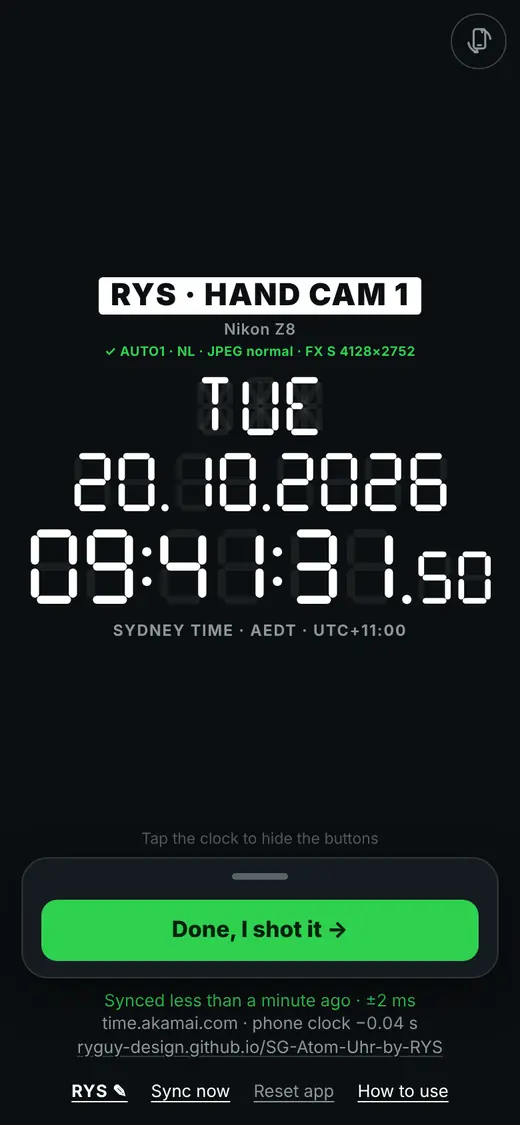
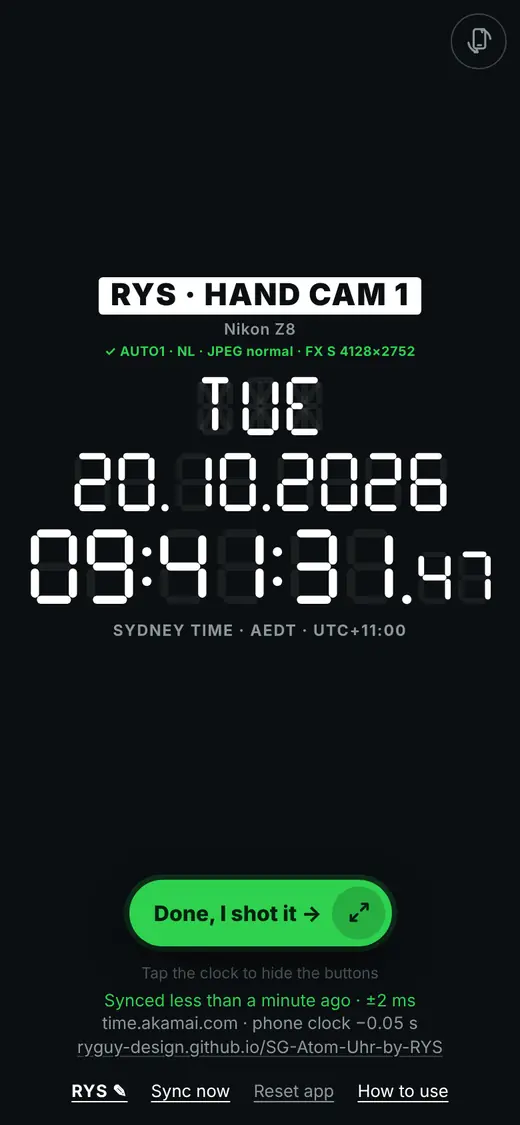
Camera check becomes a green floating bubble (drag anywhere, arrows open the box); clock always centred; landscape bottom text stacked and centred; guide updated
Claude-Session: https://claude.ai/code/session_01JznZzYxsbG1MxddMkXcSY2

diff --git a/index.html b/index.html
@@ -280,8 +280,6 @@ footer{position:relative}
 .fl-inner{display:flex; flex-direction:column; align-items:stretch; gap:.4rem; padding-bottom:12px}
 .fl-more{display:flex; flex-direction:column; gap:.35rem}
 /* Landscape has spare width, not height: the box floats on the right and the clock centres in the space left of it */
-html.land main{padding-right:var(--boxres,0px)}
-body.photo main{padding-right:0}
 html.land .nextbar{left:auto; right:max(12px, env(safe-area-inset-right,0px)); width:min(17.5rem, 36%); margin:0}
 html.land .fl-go{font-size:.98rem; padding:.7rem .6rem}
 html.land .fl-adds{flex-direction:column; gap:.4rem}
@@ -404,9 +402,10 @@ html.narrow .nb-next{font-size:.92rem; padding:.5rem .7rem}
 .resetbtn:focus-visible{outline:2px solid var(--fg); outline-offset:2px}
 .sheet button:focus-visible,.sheet select:focus-visible,.checklist input:focus-visible{outline:2px solid var(--fg); outline-offset:2px}
 /* Landscape: everything at the bottom on one compact line, so the clock gets the height */
-html.land footer{flex-wrap:nowrap; align-items:center; gap:.9rem}
+html.land footer{flex-direction:column; flex-wrap:nowrap; align-items:center; gap:.3rem; text-align:center}
+html.land .taphint{margin-bottom:.2rem}
 html.land .cam{width:auto; flex:1 1 auto; min-width:0; max-width:55%}
-html.land #status{flex:1; min-width:0}
+html.land #status{align-items:center; text-align:center}
 html.land #syncText{white-space:nowrap; overflow:hidden; text-overflow:ellipsis}
 html.land #detail,html.land .applink{display:none}
 html.narrow footer{flex-direction:column; align-items:center; text-align:center}
@@ -417,15 +416,27 @@ html.rot body{position:fixed; top:0; left:0; width:var(--rw); height:var(--rh); 
 /* ---- Motion: soft, slightly springy ("liquid") ---- */
 :root{--spring:cubic-bezier(.2,1.25,.3,1); --ease:cubic-bezier(.2,.8,.2,1)}
 /* Bottom panel: slides up, can be dragged down to a small peek, and back up */
-.nextbar{transition:height .45s var(--spring), opacity .25s var(--ease); touch-action:pan-x}
+.nextbar{touch-action:pan-x}
 .nextbar:not([hidden]){animation:panelIn .5s var(--spring)}
 .nextbar.leaving{opacity:0; transform:translateY(20px); transition:opacity .25s var(--ease), transform .25s var(--ease)}
 .nextbar.dragging{transition:none}
 .nextbar[data-stage="2"]{overflow-y:auto}
 .nextbar:not([data-stage="2"]) .fl-more{opacity:.0; transition:opacity .2s}
 .nextbar[data-stage="2"] .fl-more{opacity:1; transition:opacity .35s .1s}
-/* Minimised: just the line and the green button, so the next step is always one tap away */
-.nextbar[data-stage="0"] .fl-top,.nextbar[data-stage="0"] .fl-steps,.nextbar[data-stage="0"] .fl-adds{display:none}
+/* Put away: the box hides and the green bubble takes its place */
+.nextbar[data-stage="0"]{visibility:hidden; opacity:0; pointer-events:none}
+.nextbar{transition:height .45s var(--spring), opacity .25s var(--ease), visibility .25s}
+.bubble{position:fixed; z-index:9; left:0; top:0; display:flex; align-items:center; max-width:calc(100% - 24px); border-radius:999px; background:var(--ok); color:#06210e;
+  box-shadow:0 10px 28px rgba(0,0,0,.55), 0 0 0 4px rgba(46,204,90,.18); touch-action:none; -webkit-user-select:none; user-select:none; animation:panelIn .45s var(--spring)}
+.bubble[hidden]{display:none}
+.bubble.dragging{box-shadow:0 16px 36px rgba(0,0,0,.6), 0 0 0 6px rgba(46,204,90,.25); cursor:grabbing}
+.bb-go{min-width:0; font:inherit; font-size:1rem; font-weight:800; color:inherit; background:none; border:0; padding:.8rem .4rem .8rem 1.15rem; white-space:nowrap; overflow:hidden; text-overflow:ellipsis; cursor:pointer}
+.bb-add{flex-shrink:0; font:inherit; font-size:.95rem; font-weight:800; color:#06210e; background:rgba(0,0,0,.12); border:0; border-radius:999px; padding:.55rem .7rem; margin-left:.2rem; cursor:pointer; white-space:nowrap}
+.bb-add[hidden]{display:none}
+.bb-exp{flex-shrink:0; width:2.5rem; height:2.5rem; margin:.3rem .3rem .3rem .1rem; border-radius:50%; border:0; background:rgba(0,0,0,.16); color:#06210e; display:flex; align-items:center; justify-content:center; cursor:pointer; padding:0}
+.bb-exp svg{width:1.05rem; height:1.05rem}
+.bb-go:focus-visible,.bb-exp:focus-visible{outline:2px solid #fff; outline-offset:2px; border-radius:999px}
+body.photo .bubble{display:none}
 .fl-inner{transition:opacity .25s var(--ease)}
 .fl-grab{flex-shrink:0; align-self:center; display:flex; align-items:center; justify-content:center; width:100%; height:1.6rem; padding:0; background:none; border:0; cursor:grab; touch-action:none}
 .fl-grab i{display:block; width:2.6rem; height:5px; border-radius:3px; background:#56626a}
@@ -479,6 +490,12 @@ html:not(.land) .taphint{transform:translateY(calc(-1 * var(--boxh, 0px))); tran
 
 <div id="tapHint" class="taphint">Tap the clock to hide the buttons</div>
 <div id="showHint" class="showhint">Tap to show buttons</div>
+<!-- Camera check bubble: the box when it's put away. Drag it anywhere; the arrows open the box -->
+<div id="bubble" class="bubble" hidden>
+  <button id="bbGo" class="bb-go" type="button"></button>
+  <button id="bbAdd" class="bb-add" type="button" hidden aria-label="Add another camera">+ 📷</button>
+  <button id="bbExp" class="bb-exp" type="button" aria-label="Open the camera box"><svg viewBox="0 0 24 24" fill="none" stroke="currentColor" stroke-width="2.6" stroke-linecap="round" stroke-linejoin="round"><polyline points="15 3 21 3 21 9"/><polyline points="9 21 3 21 3 15"/><line x1="21" y1="3" x2="14" y2="10"/><line x1="3" y1="21" x2="10" y2="14"/></svg></button>
+</div>
 <footer>
 <div id="nextBar" class="nextbar" hidden role="region" aria-label="Camera steps" data-stage="0">
   <button id="flGrab" class="fl-grab" type="button" aria-label="Slide the camera box up or down"><i></i></button>
@@ -591,17 +608,17 @@ html:not(.land) .taphint{transform:translateY(calc(-1 * var(--boxh, 0px))); tran
 <div id="guide" class="viewer guide" hidden role="dialog" aria-modal="true" aria-labelledby="gTitle">
   <div class="view-top g-top"><b id="gTitle">How to use</b><button id="gClose" class="g-close" type="button" aria-label="Close the guide">✕</button></div>
   <ol class="g-list">
-    <li class="g-step"><div class="g-num">1</div><div class="g-body"><b>Add your first camera</b><p>Tap <b>+ 📷</b> at the bottom of the clock screen.</p><img src="guide/1.webp?v=3" alt="" loading="lazy" width="390" height="844"></div></li>
-    <li class="g-step"><div class="g-num">2</div><div class="g-body"><b>Enter your initials</b><p>Only the first time. They go on every camera label and photo name. Change them later with your initials at the bottom of the screen.</p><img src="guide/2.webp?v=3" alt="" loading="lazy" width="390" height="844"></div></li>
-    <li class="g-step"><div class="g-num">3</div><div class="g-body"><b>Pick the camera</b><p>Choose <b>Hand cam</b> or <b>LS</b> at the top, then tap the brand and the model. Your recent cameras show at the top for one-tap picks.</p><img src="guide/3.webp?v=3" alt="" loading="lazy" width="390" height="844"></div></li>
-    <li class="g-step"><div class="g-num">4</div><div class="g-body"><b>Set the 4 settings</b><p>Set each setting on your camera and tick it. Every tick has to be tapped. Then tap <b>Continue: shoot the clock →</b>.</p><img src="guide/4.webp?v=3" alt="" loading="lazy" width="390" height="844"></div></li>
-    <li class="g-step"><div class="g-num">5</div><div class="g-body"><b>Shoot the clock</b><p>Point your camera at the clock and take a shot. Then tap <b>Done, I shot it →</b> in the box at the bottom.</p><img src="guide/5.webp?v=3" alt="" loading="lazy" width="390" height="844"></div></li>
-    <li class="g-step"><div class="g-num">6</div><div class="g-body"><b>The camera box</b><p>Drag its line up for more: the middle height shows your cameras, the progress line and ✎ 🗑 ✕. All the way up shows the instructions and ← Back links. Drag it down or tap ✕ to make it small again. The green button always stays on show.</p><img src="guide/6.webp?v=3" alt="" loading="lazy" width="390" height="844"></div></li>
-    <li class="g-step"><div class="g-num">7</div><div class="g-body"><b>Photograph the camera's screen</b><p>On the camera, play back the shot of the clock with its <b>time showing</b>. Tap <b>📷 Take photo</b>, fill the frame with the camera's screen and press the shutter.</p><img src="guide/7.webp?v=3" alt="" loading="lazy" width="390" height="844"></div></li>
-    <li class="g-step"><div class="g-num">8</div><div class="g-body"><b>Check: same second?</b><p>The app reads the clock in the shot and the camera's own time and tells you <b>In sync ✓</b> or how many seconds it's off. Zoom in to check by eye. In sync: tap <b>✓ Yes, in sync</b>. Not in sync: fix the camera's clock, shoot the clock again and <b>Retake</b>.</p><img src="guide/8.webp?v=3" alt="" loading="lazy" width="390" height="844"></div></li>
-    <li class="g-step"><div class="g-num">9</div><div class="g-body"><b>Next camera or add one</b><p>Tap <b>Next camera →</b> for the next one in your list. Tap <b>+ 📷</b> next to the green button to add another hand cam or LS.</p><img src="guide/9.webp?v=3" alt="" loading="lazy" width="390" height="844"></div></li>
-    <li class="g-step"><div class="g-num">10</div><div class="g-body"><b>Send the photos</b><p>When every camera has its photo, tap <b>Send photos →</b>. Look over the list (tap one to see it again), then tap <b>Send</b> and pick your group chat. Sending is locked until every camera has a photo; a red tile takes you to the one that's missing.</p><img src="guide/10.webp?v=3" alt="" loading="lazy" width="390" height="844"></div></li>
-    <li class="g-step"><div class="g-num">11</div><div class="g-body"><b>Change, delete or switch cameras</b><p>In the middle height of the box: tap a camera to switch to it, tap it again (or ✎) to change its check, 🗑 twice to delete it, + to add one.</p><img src="guide/11.webp?v=3" alt="" loading="lazy" width="390" height="844"></div></li>
+    <li class="g-step"><div class="g-num">1</div><div class="g-body"><b>Add your first camera</b><p>Tap <b>+ 📷</b> at the bottom of the clock screen.</p><img src="guide/1.webp?v=4" alt="" loading="lazy" width="390" height="844"></div></li>
+    <li class="g-step"><div class="g-num">2</div><div class="g-body"><b>Enter your initials</b><p>Only the first time. They go on every camera label and photo name. Change them later with your initials at the bottom of the screen.</p><img src="guide/2.webp?v=4" alt="" loading="lazy" width="390" height="844"></div></li>
+    <li class="g-step"><div class="g-num">3</div><div class="g-body"><b>Pick the camera</b><p>Choose <b>Hand cam</b> or <b>LS</b> at the top, then tap the brand and the model. Your recent cameras show at the top for one-tap picks.</p><img src="guide/3.webp?v=4" alt="" loading="lazy" width="390" height="844"></div></li>
+    <li class="g-step"><div class="g-num">4</div><div class="g-body"><b>Set the 4 settings</b><p>Set each setting on your camera and tick it. Every tick has to be tapped. Then tap <b>Continue: shoot the clock →</b>.</p><img src="guide/4.webp?v=4" alt="" loading="lazy" width="390" height="844"></div></li>
+    <li class="g-step"><div class="g-num">5</div><div class="g-body"><b>Shoot the clock</b><p>Point your camera at the clock and take a shot. Then tap <b>Done, I shot it →</b> on the green bubble.</p><img src="guide/5.webp?v=4" alt="" loading="lazy" width="390" height="844"></div></li>
+    <li class="g-step"><div class="g-num">6</div><div class="g-body"><b>The green bubble</b><p>The bubble always shows your next step: just tap it. Drag it anywhere on the screen to keep the clock clear. Tap the <b>⤢ arrows</b> to open the camera box (your cameras, progress, ✎ 🗑 ✕); tap its line for the instructions and ← Back links. ✕ or a drag down turns it back into the bubble.</p><img src="guide/6.webp?v=4" alt="" loading="lazy" width="390" height="844"></div></li>
+    <li class="g-step"><div class="g-num">7</div><div class="g-body"><b>Photograph the camera's screen</b><p>On the camera, play back the shot of the clock with its <b>time showing</b>. Tap <b>📷 Take photo</b>, fill the frame with the camera's screen and press the shutter.</p><img src="guide/7.webp?v=4" alt="" loading="lazy" width="390" height="844"></div></li>
+    <li class="g-step"><div class="g-num">8</div><div class="g-body"><b>Check: same second?</b><p>The app reads the clock in the shot and the camera's own time and tells you <b>In sync ✓</b> or how many seconds it's off. Zoom in to check by eye. In sync: tap <b>✓ Yes, in sync</b>. Not in sync: fix the camera's clock, shoot the clock again and <b>Retake</b>.</p><img src="guide/8.webp?v=4" alt="" loading="lazy" width="390" height="844"></div></li>
+    <li class="g-step"><div class="g-num">9</div><div class="g-body"><b>Next camera or add one</b><p>Tap <b>Next camera →</b> for the next one in your list. Tap <b>+ 📷</b> on the bubble to add another hand cam or LS.</p><img src="guide/9.webp?v=4" alt="" loading="lazy" width="390" height="844"></div></li>
+    <li class="g-step"><div class="g-num">10</div><div class="g-body"><b>Send the photos</b><p>When every camera has its photo, tap <b>Send photos →</b>. Look over the list (tap one to see it again), then tap <b>Send</b> and pick your group chat. Sending is locked until every camera has a photo; a red tile takes you to the one that's missing.</p><img src="guide/10.webp?v=4" alt="" loading="lazy" width="390" height="844"></div></li>
+    <li class="g-step"><div class="g-num">11</div><div class="g-body"><b>Change, delete or switch cameras</b><p>Open the box with the ⤢ arrows: tap a camera to switch to it, tap it again (or ✎) to change its check, 🗑 twice to delete it, + to add one.</p><img src="guide/11.webp?v=4" alt="" loading="lazy" width="390" height="844"></div></li>
     <li class="g-step"><div class="g-num">i</div><div class="g-body"><b>Good to know</b><p>
       · <b>Sync now</b> re-checks the time server; the line above it shows how far off your phone's own clock is.<br>
       · <b>Tap the clock</b> to hide the buttons for a clean shot; tap again to bring them back.<br>
@@ -1500,14 +1517,58 @@ html:not(.land) .taphint{transform:translateY(calc(-1 * var(--boxh, 0px))); tran
     nextBar.dataset.stage = cur; return h;
   }
   function setStage(n){ stage = n; nextBar.dataset.stage = n; if(n < 2) nextBar.scrollTop = 0; var h = stageH(n); nextBar.style.height = h + "px";
-    document.documentElement.style.setProperty("--boxh", (h + 10) + "px"); document.documentElement.classList.toggle("boxfull", n === 2); reserve(); }
+    document.documentElement.style.setProperty("--boxh", (n ? h + 10 : 0) + "px"); document.documentElement.classList.toggle("boxfull", n === 2); updateBubble(); }
   // Landscape is short: the clock shrinks a little so the box's middle height never covers it
-  var reserved = -1;
-  function reserve(){
-    if(!flGrabEl) return;
-    var v = (!nextBar.hidden && document.documentElement.classList.contains("land")) ? nextBar.offsetWidth + 20 : 0;
-    if(v === reserved) return; reserved = v; document.documentElement.style.setProperty("--boxres", v + "px"); fit();
+  function reserve(){}   // the clock always stays centred now; nothing is reserved for the box
+  // ---- The bubble: the camera check when put away. Green, shows the next step, drag it anywhere, arrows open the box ----
+  var bubble = document.getElementById("bubble"), bbGo = document.getElementById("bbGo"), bubPos = null;
+  try{ bubPos = JSON.parse(localStorage.getItem("acBub") || "null"); }catch(e){}
+  function appSize(){ var rot = document.documentElement.classList.contains("rot"); return rot ? [document.body.clientWidth, document.body.clientHeight] : [window.innerWidth, window.innerHeight]; }
+  function placeBubble(){
+    if(bubble.hidden) return;
+    var sz = appSize(), W = sz[0], H = sz[1], bw = bubble.offsetWidth, bh = bubble.offsetHeight, foot = document.querySelector("footer"), x, y;
+    if(bubPos){ x = bubPos[0] * W - bw / 2; y = bubPos[1] * H - bh / 2; }
+    else if(document.documentElement.classList.contains("land")){ x = W - bw - 16; y = H - bh - 14; }   // first time, sideways: bottom-right corner, clear of the clock
+    else { x = (W - bw) / 2; y = foot.offsetTop - bh - 34; }   // first time, upright: centred just above the bottom text
+    x = Math.max(8, Math.min(W - bw - 8, x)); y = Math.max(8, Math.min(H - bh - 8, y));
+    bubble.style.transform = "translate(" + Math.round(x) + "px," + Math.round(y) + "px)";
+    bubble.dataset.x = x; bubble.dataset.y = y;
   }
+  function updateBubble(){
+    var show = !nextBar.hidden && !nextBar.classList.contains("leaving") && stage === 0;
+    bbGo.textContent = flGo.textContent; bbGo.setAttribute("aria-label", flGo.textContent);
+    document.getElementById("bbAdd").hidden = document.getElementById("flGoAdd").hidden;
+    if(bubble.hidden === !show){ if(show) placeBubble(); return; }
+    bubble.hidden = !show; if(show) placeBubble();
+  }
+  window.addEventListener("resize", function(){ setTimeout(placeBubble, 60); });
+  (function(){
+    var sx = 0, sy = 0, x0 = 0, y0 = 0, down = false, moved = false, skipClick = false;
+    function pt(e){ var rot = document.documentElement.classList.contains("rot"); return rot ? [e.clientY, -e.clientX] : [e.clientX, e.clientY]; }
+    bubble.addEventListener("pointerdown", function(e){
+      down = true; moved = false; var p = pt(e); sx = p[0]; sy = p[1]; x0 = +bubble.dataset.x || 0; y0 = +bubble.dataset.y || 0;
+    });
+    bubble.addEventListener("pointermove", function(e){
+      if(!down) return; var p = pt(e), dx = p[0] - sx, dy = p[1] - sy;
+      if(!moved && Math.hypot(dx, dy) < 8) return;
+      if(!moved){ moved = true; bubble.classList.add("dragging"); try{ bubble.setPointerCapture(e.pointerId); }catch(_){} }   // only a real drag takes the finger; taps reach the buttons
+      var sz = appSize(), bw = bubble.offsetWidth, bh = bubble.offsetHeight;
+      var x = Math.max(8, Math.min(sz[0] - bw - 8, x0 + dx)), y = Math.max(8, Math.min(sz[1] - bh - 8, y0 + dy));
+      bubble.style.transform = "translate(" + Math.round(x) + "px," + Math.round(y) + "px)"; bubble.dataset.x = x; bubble.dataset.y = y;
+    });
+    function end(){
+      if(!down) return; down = false; bubble.classList.remove("dragging");
+      if(moved){
+        skipClick = true; setTimeout(function(){ skipClick = false; }, 50);
+        var sz = appSize(); bubPos = [(+bubble.dataset.x + bubble.offsetWidth / 2) / sz[0], (+bubble.dataset.y + bubble.offsetHeight / 2) / sz[1]];
+        try{ localStorage.setItem("acBub", JSON.stringify(bubPos)); }catch(_){}
+      }
+    }
+    bubble.addEventListener("pointerup", end); bubble.addEventListener("pointercancel", end);
+    bbGo.addEventListener("click", function(e){ if(skipClick){ e.preventDefault(); return; } if(act_go) act_go(); });
+    document.getElementById("bbExp").addEventListener("click", function(e){ if(skipClick) return; setStage(1); });
+    document.getElementById("bbAdd").addEventListener("click", function(e){ if(skipClick) return; document.getElementById("flGoAdd").click(); });
+  })();
   window.addEventListener("resize", function(){ if(!nextBar.hidden) setStage(stage); });
   // Whenever the box's contents change size (new step, photo loaded, fonts), fit its height again
   if(window.ResizeObserver) new ResizeObserver(function(){ if(!nextBar.hidden && !nextBar.classList.contains("dragging")) setStage(stage); }).observe(flInner);
@@ -1529,12 +1590,12 @@ html:not(.land) .taphint{transform:translateY(calc(-1 * var(--boxh, 0px))); tran
       if(!down) return; dy = along(e) - y0; if(Math.abs(dy) > 4) moved = true; if(!moved) return;
       var lo = stageH(0), hi = stageH(2), h = h0 - dy;
       if(h > hi) h = hi + (h - hi) * .25; if(h < lo) h = lo - (lo - h) * .25;   // a little stretch past the ends, like pulling something soft
-      nextBar.dataset.stage = h > stageH(1) + 8 ? 2 : h > lo + 8 ? 1 : 0;
+      nextBar.dataset.stage = h > stageH(1) + 8 ? 2 : 1;
       nextBar.style.height = h + "px"; document.documentElement.style.setProperty("--boxh", (h + 10) + "px");
     });
     function end(){
       if(!down) return; down = false; nextBar.classList.remove("dragging");
-      if(!moved){ setStage(stage === 0 ? 1 : stage === 1 ? 2 : 1); return; }
+      if(!moved){ setStage(stage === 1 ? 2 : 1); return; }
       var v = -dy / Math.max(1, Date.now() - t0), h = nextBar.offsetHeight, hs = [stageH(0), stageH(1), stageH(2)], n = 0;
       for(var i = 1; i < 3; i++) if(Math.abs(hs[i] - h) < Math.abs(hs[n] - h)) n = i;
       if(v > .5) n = hs[2] > h + 4 ? (hs[1] > h + 4 ? 1 : 2) : 2;          // flicked up
@@ -1586,7 +1647,7 @@ html:not(.land) .taphint{transform:translateY(calc(-1 * var(--boxh, 0px))); tran
   function hideNext(force){
     if(nextBar.hidden || (!force && hasCams())) return;   // the box stays; pop-ups and the camera simply cover it
     nextBar.classList.add("leaving"); clearTimeout(hideT);
-    hideT = setTimeout(function(){ nextBar.hidden = true; nextBar.classList.remove("leaving"); nextBar.style.transform = ""; stage = 0; document.documentElement.style.setProperty("--boxh", "0px"); reserve(); }, 260);
+    hideT = setTimeout(function(){ nextBar.hidden = true; nextBar.classList.remove("leaving"); nextBar.style.transform = ""; stage = 0; document.documentElement.style.setProperty("--boxh", "0px"); updateBubble(); }, 260);
   }
   function doneCount(){ var n = 0; kit.cams.forEach(function(c){ if(isDone(c) && (photos[photoKey(c)] || skipped[photoKey(c)])) n++; }); return n; }
   function goNext(){
@@ -2507,7 +2568,7 @@ html:not(.land) .taphint{transform:translateY(calc(-1 * var(--boxh, 0px))); tran
   twoTap(document.getElementById("clearMain"), "Reset app", "Sure? Resets everything", resetApp);
   // Reset the whole app to a fresh start: no cameras, no initials, no ticks or photos, location off, not rotated
   function resetApp(){
-    try{ ["acCam","acModel","acRecent","acTicks","acKit","acEvent","acLoc","acRot"].forEach(function(k){ localStorage.removeItem(k); }); }catch(e){}
+    try{ ["acCam","acModel","acRecent","acTicks","acKit","acEvent","acLoc","acRot","acBub"].forEach(function(k){ localStorage.removeItem(k); }); }catch(e){}
     camInit.value = ""; updateInitBtn(); kit = defaultKit(); ev = {day: today(), ticks: {}, id: String(Date.now())}; recent = []; dbClear();
     shotClock = {}; skipped = {}; at = {};
     save(); hideNext(); refresh();
